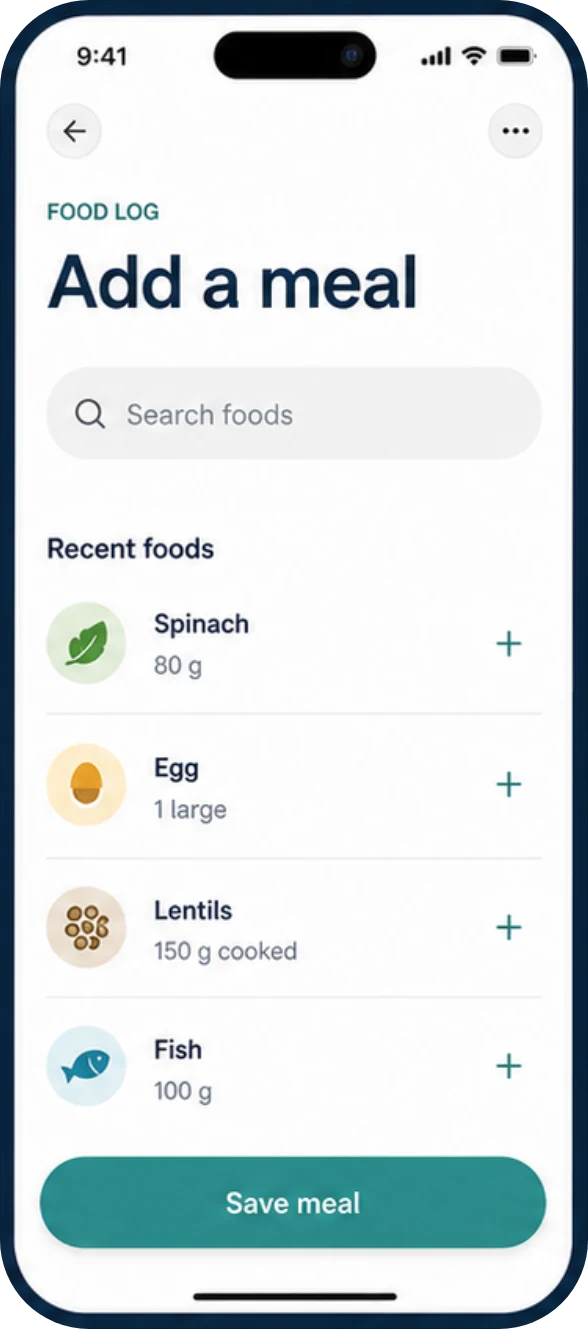
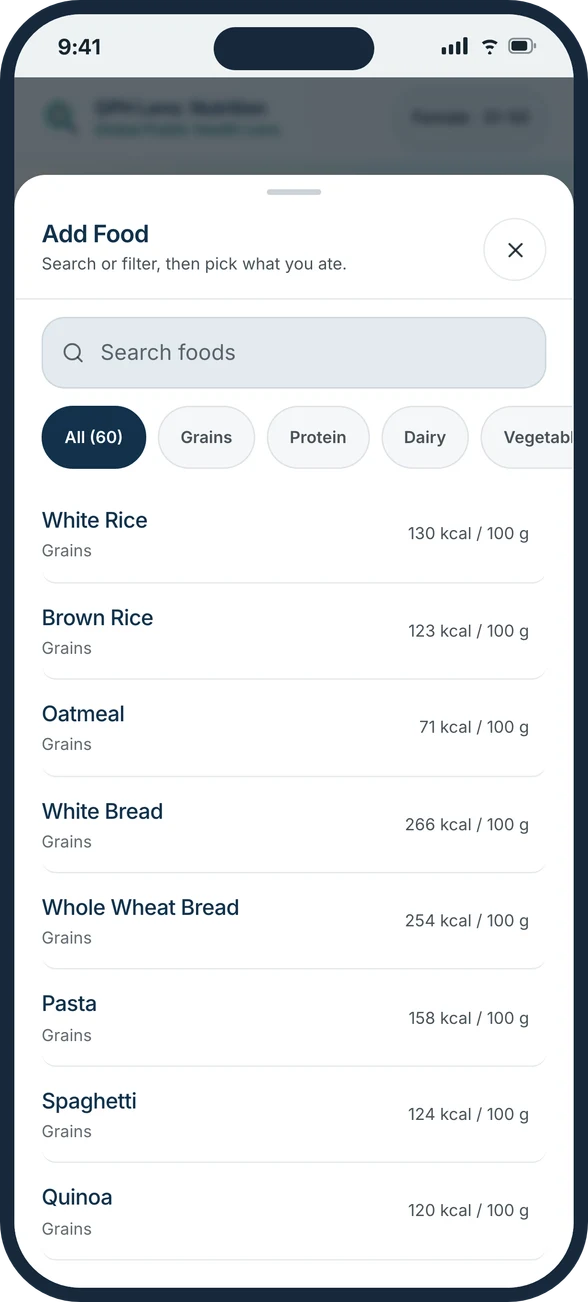
feat: show the real Nutrition app instead of prototype artwork
The app is built and deployed, so the section no longer advertises a plan.

- site-config: nutritionApp is live and points at the deployment, which flips
  the existing branch from "App Coming Soon" to an "Open Nutrition App" link.
- Copy: "A planned app for..." becomes what it is, and notes it runs in the
  browser with no install or account. "Planned features" becomes "What it does".
- The three phones are now captured from the running app at 390x844 and
  composited into a device frame: Today with a real logged day, Add Food with
  the food list, and the iron detail down to its global health context.

Two capture details worth keeping: the shots are taken under mobile emulation
because headless desktop Chrome honours the app's scrollbar-gutter and reserves
a 15px strip no phone shows; and the iron sheet is snapped to a row boundary
because it opens at maximum scroll and otherwise slices a food name across the
top of the frame.

diff --git a/components/app-preview/AppScreenshots.tsx b/components/app-preview/AppScreenshots.tsx
@@ -1,26 +1,26 @@
 import Image from "next/image";
 
-// Cut from the prototype artwork as three separate transparent screens so the
-// stage can respond to scroll. The source was one flat image on a grey panel,
-// which could only ever sit there.
+// Captured from the running app at 390x844 and composited into a device frame,
+// so the section shows what someone actually opens rather than artwork of it.
+// Three separate transparent images so the stage can respond to scroll.
 const screens = [
   {
     src: "/brand/app/screen-today.webp",
-    width: 564,
-    height: 1260,
-    alt: "App screen showing a daily nutrition score of 82 out of 100 with a nutrient balance breakdown.",
+    width: 588,
+    height: 1302,
+    alt: "The app's Today screen: a nutrition score of 68 out of 100, and a nutrient balance list ranking all thirteen nutrients against their targets.",
   },
   {
     src: "/brand/app/screen-add-meal.webp",
     width: 588,
-    height: 1329,
-    alt: "App screen for adding a meal, listing recent foods with serving sizes.",
+    height: 1302,
+    alt: "The app's Add Food screen, searching the food list and showing matches with their serving sizes.",
   },
   {
     src: "/brand/app/screen-lens.webp",
-    width: 555,
-    height: 1256,
-    alt: "App screen showing the Global Lens view of iron, with food sources and a safety note.",
+    width: 588,
+    height: 1302,
+    alt: "The app's nutrient detail for iron: what it does, food sources, the global health context, and a safety note.",
   },
 ];
 
@@ -42,7 +42,7 @@ export function AppScreenshots() {
             </div>
           ))}
         </div>
-        <p className="image-caption">Three prototype screens · planned educational experience</p>
+        <p className="image-caption">Three screens from the running app</p>
       </div>
     </div>
   );

diff --git a/components/app-preview/NutritionAppPreview.tsx b/components/app-preview/NutritionAppPreview.tsx
@@ -16,10 +16,10 @@ export function NutritionAppPreview() {
         <div className="app-copy">
           <Eyebrow>GPH LENS: NUTRITION</Eyebrow>
           <h2 id="app-title">Turn everyday food choices into a learning experience.</h2>
-          <p>A planned app for logging food, seeing nutrient balance, and connecting everyday intake to global nutrition.</p>
+          <p>A web app for logging food, seeing nutrient balance, and connecting everyday intake to global nutrition. It runs in the browser — no install, no account.</p>
           <AppWorkflow />
           <div className="feature-line">
-            <span>Planned features</span>
+            <span>What it does</span>
             {appFeatures.map((feature) => (
               <span key={feature}>{feature}</span>
             ))}

diff --git a/content/site-config.ts b/content/site-config.ts
@@ -7,8 +7,8 @@ export const siteConfig = {
   domain: "[INSERT DOMAIN]",
   nutritionApp: {
     name: "GPH Lens: Nutrition",
-    status: "coming-soon" as "coming-soon" | "live",
-    webUrl: "",
+    status: "live" as "coming-soon" | "live",
+    webUrl: "https://global-rens-app.vercel.app",
     appStoreUrl: "",
     googlePlayUrl: "",
   },
